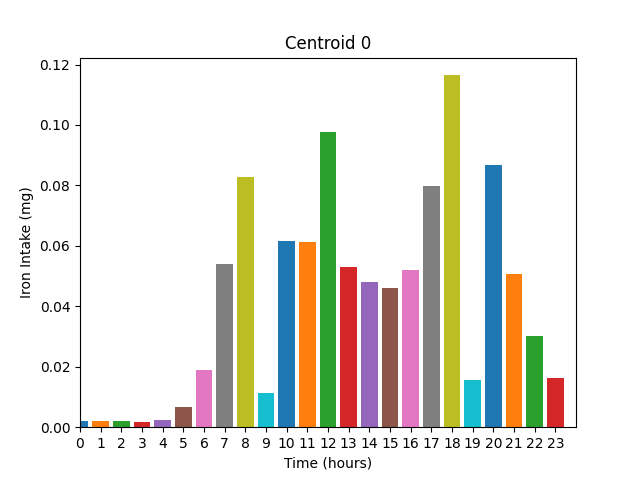
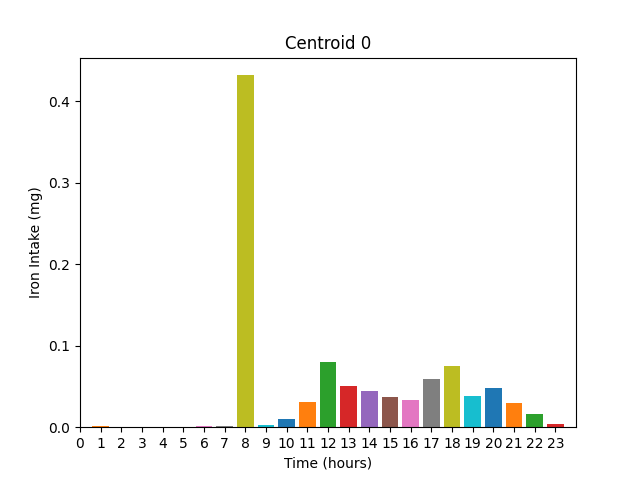
Try DTW

diff --git a/temporal_dietary_patterns/kmeans_clustering.py b/temporal_dietary_patterns/kmeans_clustering.py
@@ -1,5 +1,10 @@
 import numpy as np
 from numpy.random import rand
+from tslearn.metrics import dtw
+
+EUCLIDEAN = 0
+DTW = 1
+DIST_FUNC = EUCLIDEAN
 
 __DEBUG__ = True
 
@@ -27,22 +32,26 @@ def newCentroid(clusters, k, d):
         centroids[index,:] = mean
     return centroids, emptyClusters
 
-    
-# To do: change to dynamic time warping (DTW)
 def getDistance(trainingSet, mean):
     '''
-    Euclidean distance formula between training set and a cluster's mean
+    Distance formula between training set and a cluster's mean
     trainingSet: (n, d=24), n = # participants, d = # features/hours
     mean: (d=24, 1), column  vector
     distance: (n, 1)
     '''
-    
-    diff_sq = np.square(trainingSet - mean)
-    distance = np.sqrt(np.sum(diff_sq, axis=1))
-    distance = np.reshape(distance, (distance.shape[0],))
-
-    
-    return distance
+   
+    if DIST_FUNC == EUCLIDEAN:
+        # Euclidean distance formula: 
+        diff_sq = np.square(trainingSet - mean)
+        distance = np.sqrt(np.sum(diff_sq, axis=1))
+        distance = np.reshape(distance, (distance.shape[0],))
+        return distance
+    else:
+        # Dynamic time warping distance formula:
+        dtw_distance = []
+        for i in range(len(trainingSet)):
+            dtw_distance.append(dtw(trainingSet[i], mean))
+        return dtw_distance
 
 def getObjective(clusters, centroids):
     objective = 0

diff --git a/temporal_dietary_patterns/main.py b/temporal_dietary_patterns/main.py
@@ -4,7 +4,7 @@ from kmeans_clustering import *
 
 __PLOT_INDIVIDUALS__ = False
 __PLOT_KMEANS__ = True
-
+__PLOT_CLUSTER_INDIVIDUALS = True
 K = 3
 MAX_ITERATIONS = 5
 
@@ -30,5 +30,9 @@ if __PLOT_KMEANS__:
         fileName = "./plots/centroid_" + str(i) + ".png" 
         plotIronIntake("Centroid " + str(i), centroid, fileName)
     
-
-
+if __PLOT_CLUSTER_INDIVIDUALS:
+    for i, cluster in enumerate(clusters):
+        filePrefix = "./plots/cluster" + str(i) + "_"
+        for j in range(6):
+            plotIronIntake("Cluster " + str(i) + ": Participant " + str(j), cluster[j], filePrefix + str(j) + ".png")
+        plotIronIntake("Cluster " + str(i) + ": Participant 1", cluster[1], filePrefix + "1.png")
